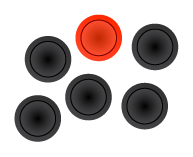
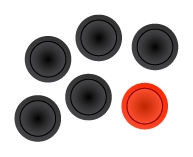
December 2025 Update

Changed region(s): [[0.3731, 0.0764, 0.6528, 0.4076], [0.6218, 0.5096, 0.8705, 0.8408]]

diff --git a/README.md b/README.md
@@ -1,27 +1,44 @@
+December 19, 2025
+
+Small Update
+
+* Set Arcade control images back to default
+* Added screenshot to game display if video not present
+* Removed frame from system video if video is turned off
+
+&nbsp;	
+
+
+
 October 12th, 2025
 
 Small Update
-- Fix text case from Boxart to BoxArt for a media setting
-- Add cartridge (cd/disk/etc) media to gamelist view
+
+* Fix text case from Boxart to BoxArt for a media setting
+* Add cartridge (cd/disk/etc) media to gamelist view
+
 
 
 August 16th, 2025
 
- New Version
- - Changed star ratings to SVG images, much clearer when scaled
- - Added border and black frame for system video
- - Added setting to choose game launch splash image (marquee, titleshot, fanart....)
- - Added setting to disable boxart / screenshot images for arcade system gamelist views
- - Fixed incorrect text alignment setting causing an ES log error
- - System view will not show favorites text if there are 0 favorites
- - Corrected a few art filenames for auto collections (trackball, spinner)
- - Removed controller art for additional arcade system collections, it's not needed
+New Version
+
+* Changed star ratings to SVG images, much clearer when scaled
+* Added border and black frame for system video
+* Added setting to choose game launch splash image (marquee, titleshot, fanart....)
+* Added setting to disable boxart / screenshot images for arcade system gamelist views
+* Fixed incorrect text alignment setting causing an ES log error
+* System view will not show favorites text if there are 0 favorites
+* Corrected a few art filenames for auto collections (trackball, spinner)
+* Removed controller art for additional arcade system collections, it's not needed
+
 
 
 August 14th, 2025
 
-Ok, there is now a readme here!  
+Ok, there is now a readme here!
 
 I just finished a little side project here:  https://github.com/RobG66/BatoDoom-Launcher
 
 There's a few more things I want to fix, hopefully soon.
+
